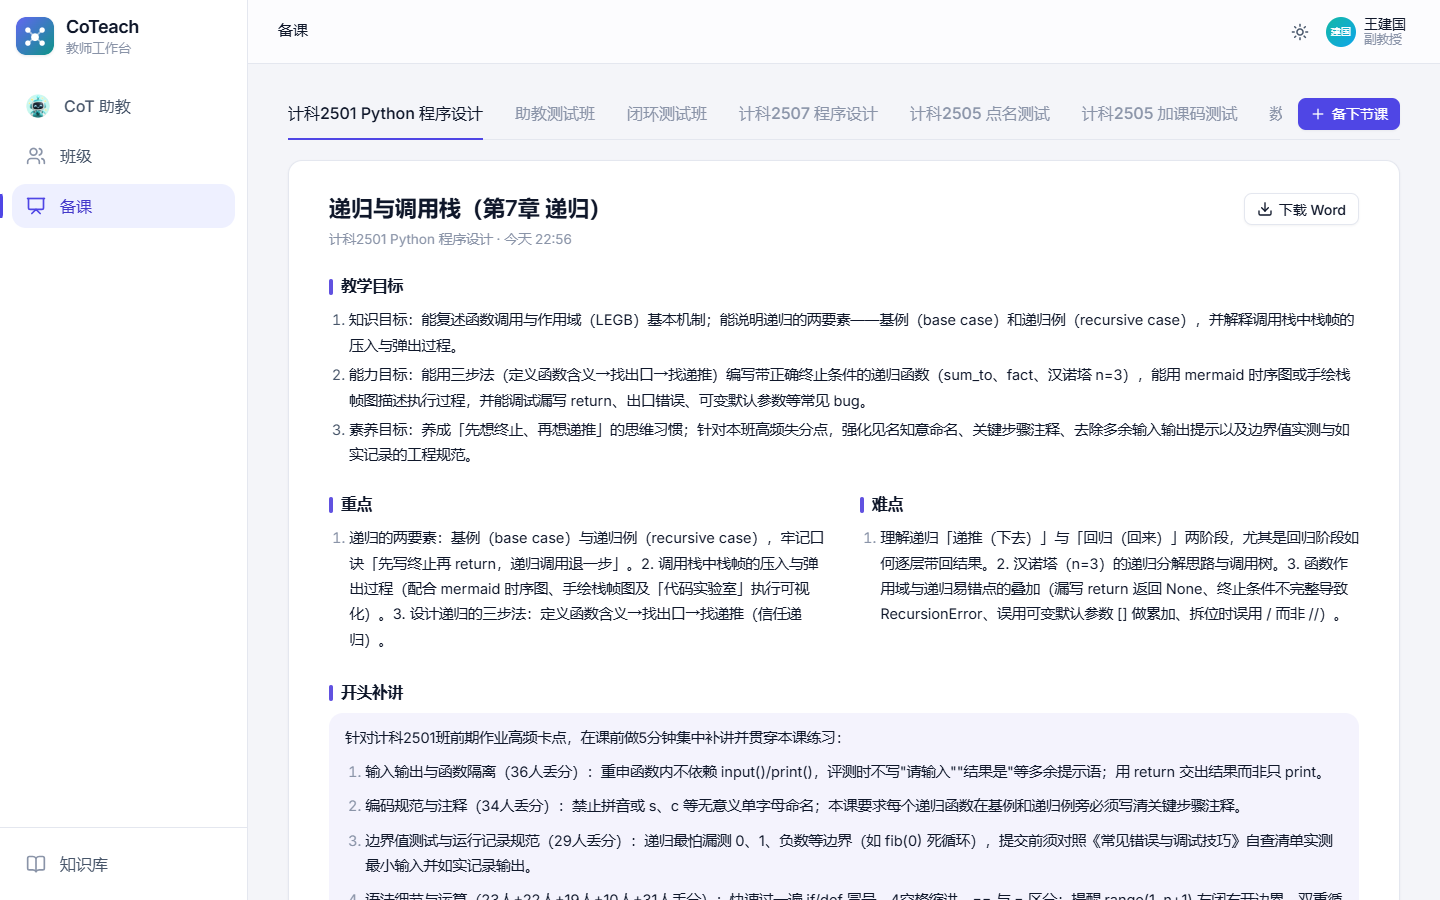
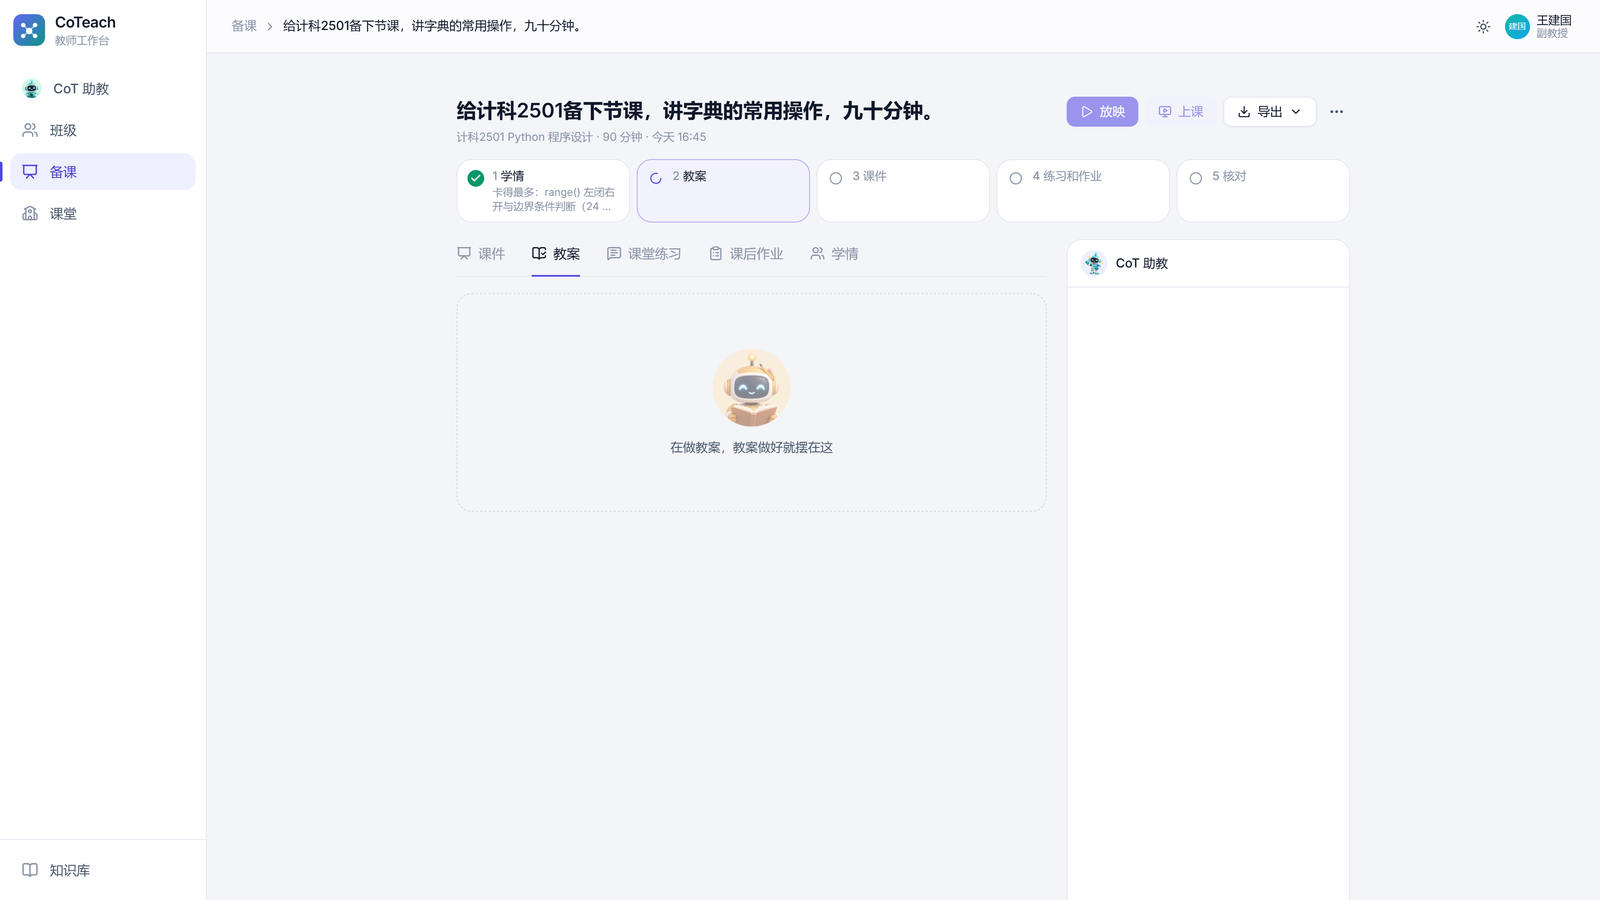
作品介绍、技术文档：换备课、学生来问的卡片截图，加课件、课堂截图；重出 PDF（图和说明不再分页）

diff --git a/docs/作品介绍.md b/docs/作品介绍.md
@@ -111,9 +111,17 @@
 
 ![学情](img/学情.png)
 
-备课：
+备课：说一句备哪节课，几手分头做，每一手的进度都看得到：
 
 ![备课](img/备课.png)
+
+课件：每页是一张幻灯片，能直接改字、跟右边的助教说着改，能放映、导出 PPT：
+
+![课件](img/课件.png)
+
+课堂：推一道题，学生在手机上答，老师这边当场看每个选项几个人选：
+
+![课堂](img/课堂.png)
 
 学生的错题本：
 
